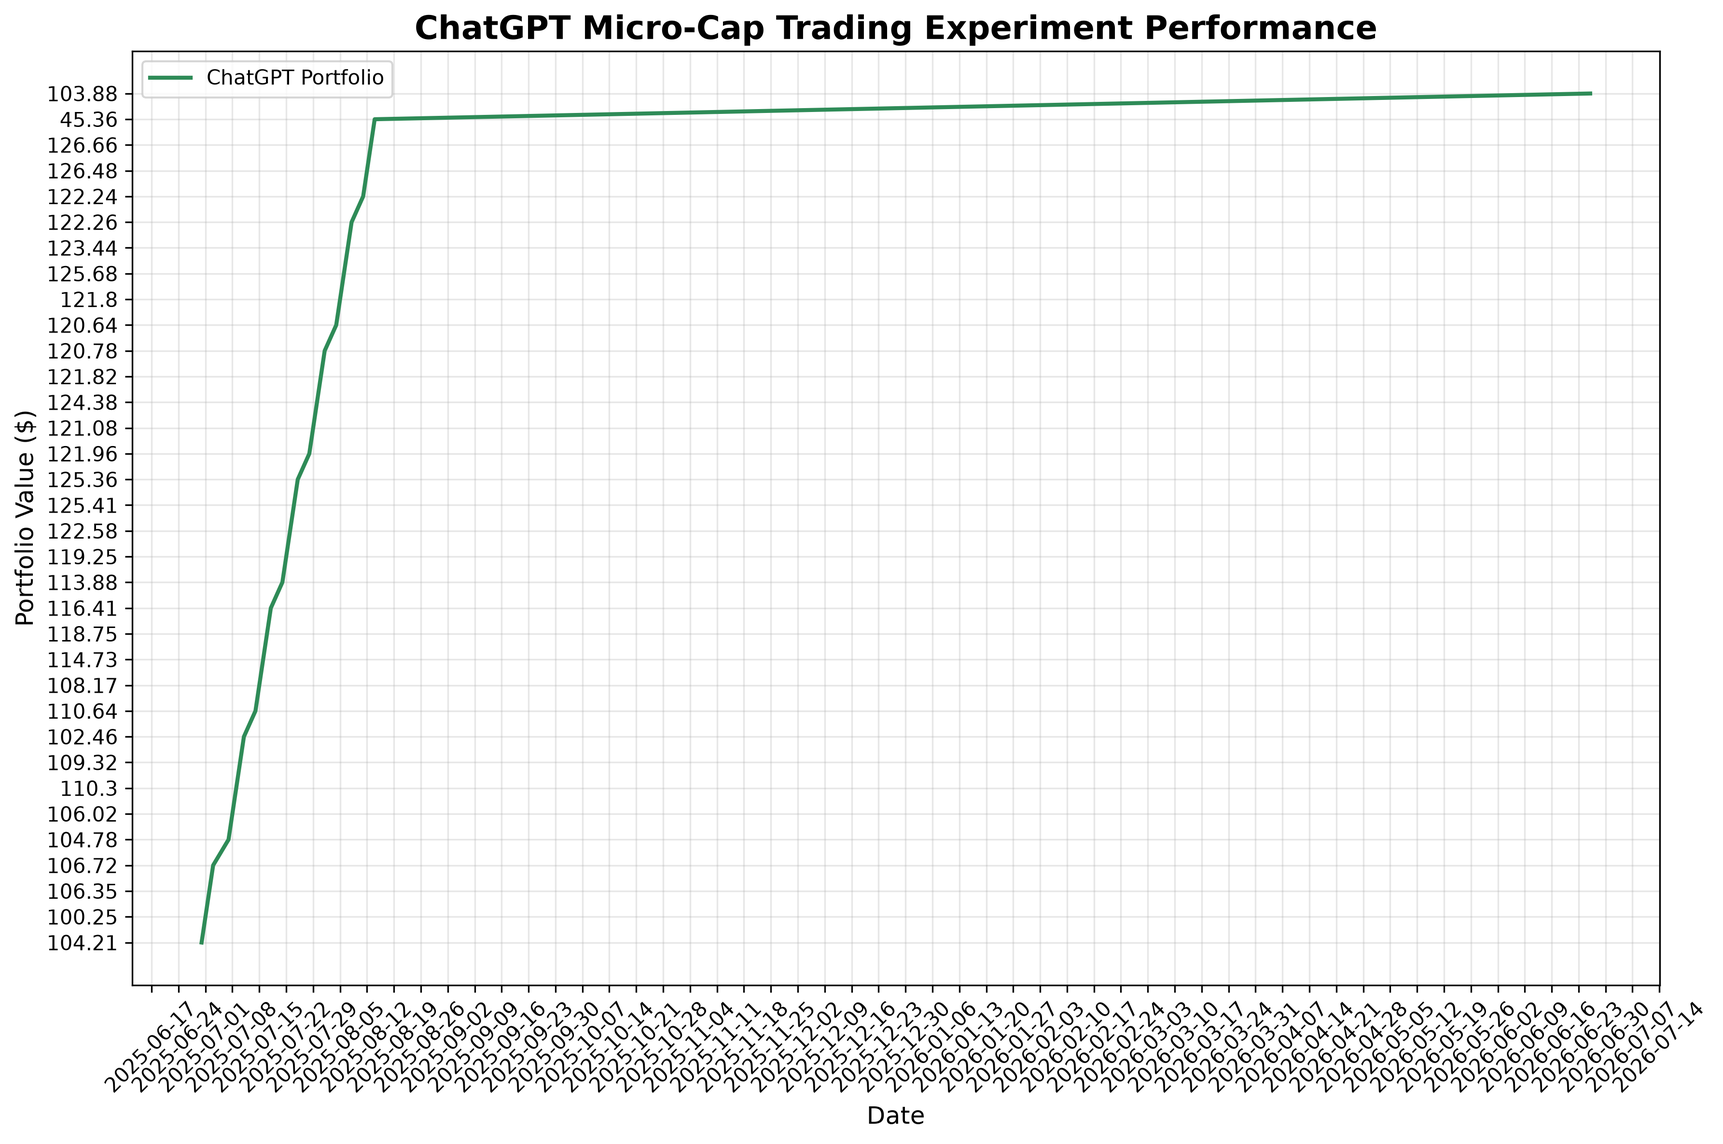
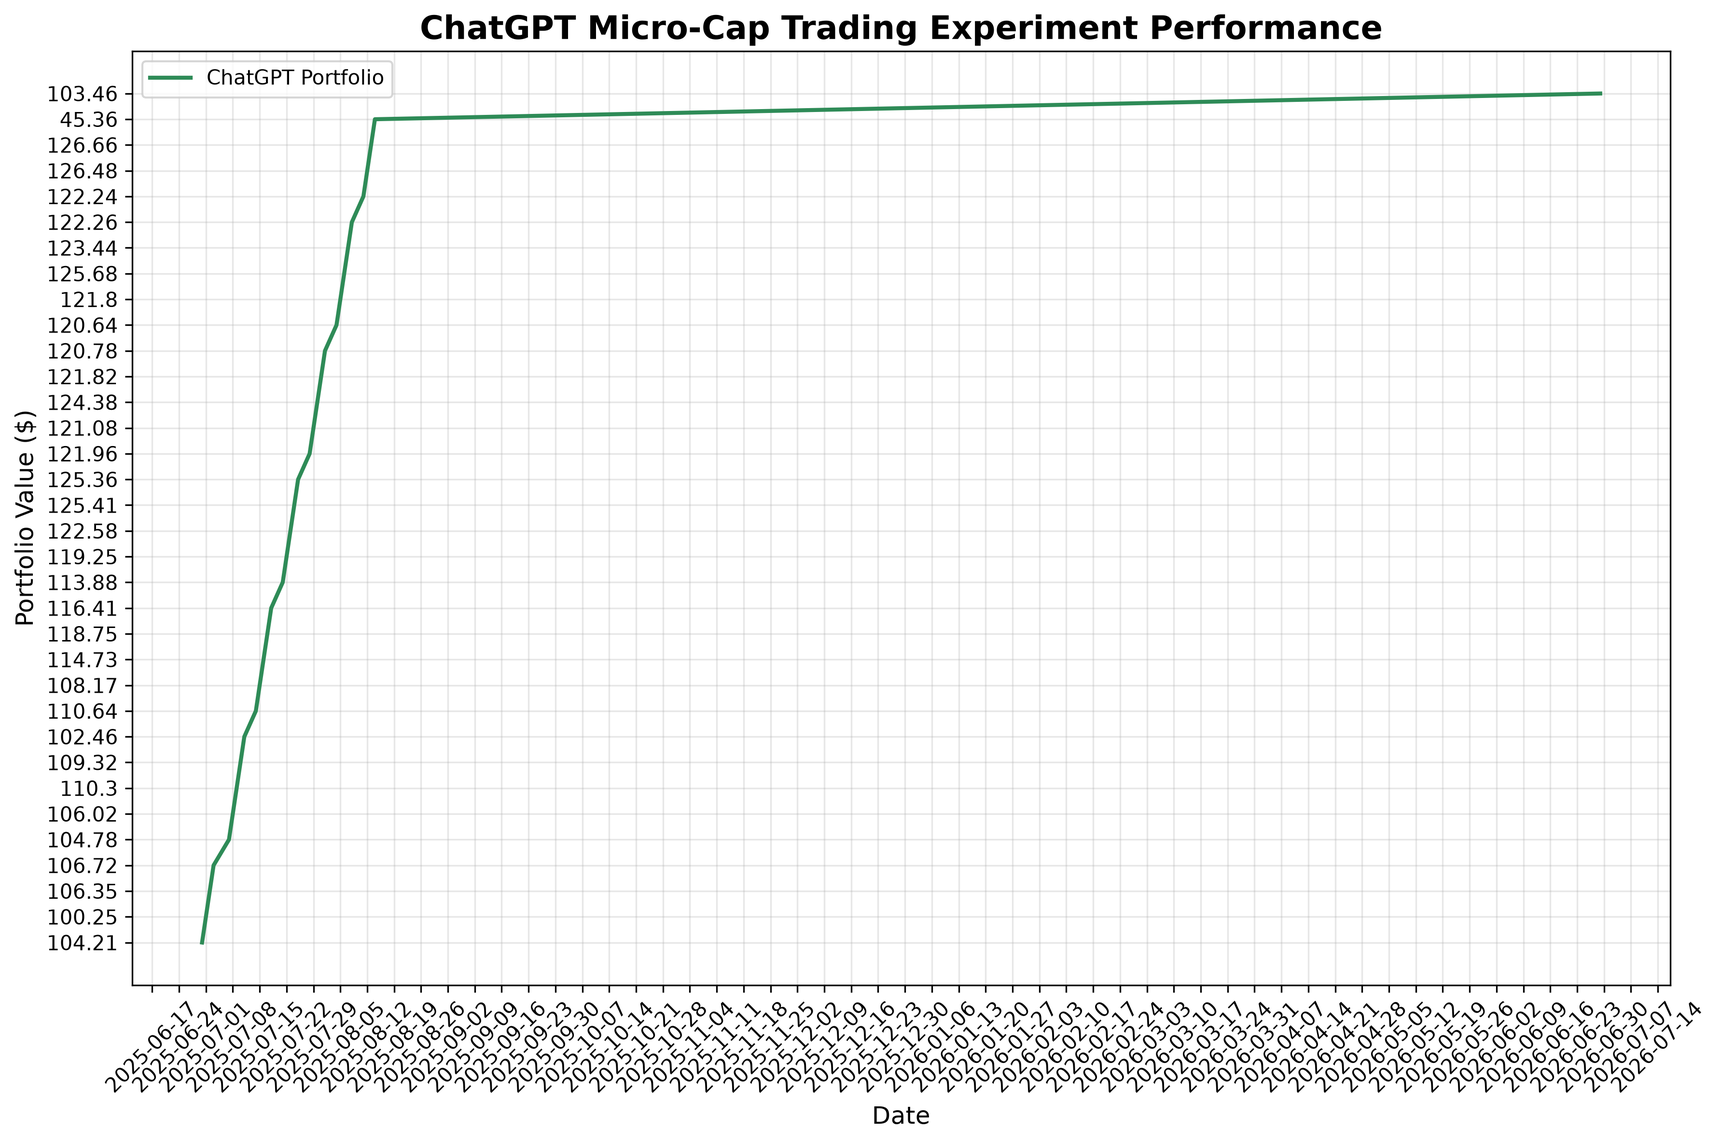
deploy: e15cad030d70fb3fbb51f9df6e22fa70c2f175c0

Changed region(s): [[0.0623, 0.8743, 0.9649, 0.9992], [0.2179, 0.0, 0.8093, 0.0624]]

diff --git a/index.html b/index.html
@@ -105,7 +105,7 @@
                 <div class="stat-label">Total Trades</div>
             </div>
             <div class="stat-card">
-                <div class="stat-value" id="last-updated">2026-06-26</div>
+                <div class="stat-value" id="last-updated">2026-06-29</div>
                 <div class="stat-label">Last Updated</div>
             </div>
         </div>
@@ -160,8 +160,8 @@
     
     <script>
         // Portfolio data
-        const portfolioData = JSON.parse("[{&quot;Date&quot;: &quot;2025-08-11&quot;, &quot;Ticker&quot;: &quot;ABEO&quot;, &quot;Shares&quot;: 4.0, &quot;Buy Price&quot;: 5.77, &quot;Cost Basis&quot;: 23.08, &quot;Stop Loss&quot;: 4.9, &quot;Current Price&quot;: 6.28, &quot;Total Value&quot;: 25.12, &quot;PnL&quot;: 2.04, &quot;Action&quot;: &quot;HOLD&quot;, &quot;Cash Balance&quot;: NaN, &quot;Total Equity&quot;: NaN}, {&quot;Date&quot;: &quot;2025-08-11&quot;, &quot;Ticker&quot;: &quot;ACTU&quot;, &quot;Shares&quot;: 6.0, &quot;Buy Price&quot;: 5.75, &quot;Cost Basis&quot;: 34.5, &quot;Stop Loss&quot;: 4.89, &quot;Current Price&quot;: 8.01, &quot;Total Value&quot;: 48.06, &quot;PnL&quot;: 13.56, &quot;Action&quot;: &quot;HOLD&quot;, &quot;Cash Balance&quot;: NaN, &quot;Total Equity&quot;: NaN}, {&quot;Date&quot;: &quot;2025-08-11&quot;, &quot;Ticker&quot;: &quot;ESPR&quot;, &quot;Shares&quot;: 2.0, &quot;Buy Price&quot;: 1.91, &quot;Cost Basis&quot;: 3.82, &quot;Stop Loss&quot;: 1.6, &quot;Current Price&quot;: 1.85, &quot;Total Value&quot;: 3.7, &quot;PnL&quot;: -0.12, &quot;Action&quot;: &quot;HOLD&quot;, &quot;Cash Balance&quot;: NaN, &quot;Total Equity&quot;: NaN}, {&quot;Date&quot;: &quot;2025-08-11&quot;, &quot;Ticker&quot;: &quot;TOTAL&quot;, &quot;Shares&quot;: NaN, &quot;Buy Price&quot;: NaN, &quot;Cost Basis&quot;: NaN, &quot;Stop Loss&quot;: NaN, &quot;Current Price&quot;: NaN, &quot;Total Value&quot;: 76.88, &quot;PnL&quot;: 15.48, &quot;Action&quot;: NaN, &quot;Cash Balance&quot;: 45.36, &quot;Total Equity&quot;: &quot;122.24&quot;}, {&quot;Date&quot;: &quot;2025-08-12&quot;, &quot;Ticker&quot;: &quot;ABEO&quot;, &quot;Shares&quot;: 4.0, &quot;Buy Price&quot;: 5.77, &quot;Cost Basis&quot;: 23.08, &quot;Stop Loss&quot;: 4.9, &quot;Current Price&quot;: 6.38, &quot;Total Value&quot;: 25.52, &quot;PnL&quot;: 2.44, &quot;Action&quot;: &quot;HOLD&quot;, &quot;Cash Balance&quot;: NaN, &quot;Total Equity&quot;: NaN}, {&quot;Date&quot;: &quot;2025-08-12&quot;, &quot;Ticker&quot;: &quot;ACTU&quot;, &quot;Shares&quot;: 6.0, &quot;Buy Price&quot;: 5.75, &quot;Cost Basis&quot;: 34.5, &quot;Stop Loss&quot;: 4.89, &quot;Current Price&quot;: 8.67, &quot;Total Value&quot;: 52.02, &quot;PnL&quot;: 17.52, &quot;Action&quot;: &quot;HOLD&quot;, &quot;Cash Balance&quot;: NaN, &quot;Total Equity&quot;: NaN}, {&quot;Date&quot;: &quot;2025-08-12&quot;, &quot;Ticker&quot;: &quot;ESPR&quot;, &quot;Shares&quot;: 2.0, &quot;Buy Price&quot;: 1.91, &quot;Cost Basis&quot;: 3.82, &quot;Stop Loss&quot;: 1.6, &quot;Current Price&quot;: 1.79, &quot;Total Value&quot;: 3.58, &quot;PnL&quot;: -0.24, &quot;Action&quot;: &quot;HOLD&quot;, &quot;Cash Balance&quot;: NaN, &quot;Total Equity&quot;: NaN}, {&quot;Date&quot;: &quot;2025-08-12&quot;, &quot;Ticker&quot;: &quot;TOTAL&quot;, &quot;Shares&quot;: NaN, &quot;Buy Price&quot;: NaN, &quot;Cost Basis&quot;: NaN, &quot;Stop Loss&quot;: NaN, &quot;Current Price&quot;: NaN, &quot;Total Value&quot;: 81.12, &quot;PnL&quot;: 19.72, &quot;Action&quot;: NaN, &quot;Cash Balance&quot;: 45.36, &quot;Total Equity&quot;: &quot;126.48&quot;}, {&quot;Date&quot;: &quot;2025-08-13&quot;, &quot;Ticker&quot;: &quot;ABEO&quot;, &quot;Shares&quot;: 4.0, &quot;Buy Price&quot;: 5.77, &quot;Cost Basis&quot;: 23.08, &quot;Stop Loss&quot;: 4.9, &quot;Current Price&quot;: 6.56, &quot;Total Value&quot;: 26.24, &quot;PnL&quot;: 3.16, &quot;Action&quot;: &quot;HOLD&quot;, &quot;Cash Balance&quot;: NaN, &quot;Total Equity&quot;: NaN}, {&quot;Date&quot;: &quot;2025-08-13&quot;, &quot;Ticker&quot;: &quot;ACTU&quot;, &quot;Shares&quot;: 6.0, &quot;Buy Price&quot;: 5.75, &quot;Cost Basis&quot;: 34.5, &quot;Stop Loss&quot;: 4.89, &quot;Current Price&quot;: 8.53, &quot;Total Value&quot;: 51.18, &quot;PnL&quot;: 16.68, &quot;Action&quot;: &quot;HOLD&quot;, &quot;Cash Balance&quot;: NaN, &quot;Total Equity&quot;: NaN}, {&quot;Date&quot;: &quot;2025-08-13&quot;, &quot;Ticker&quot;: &quot;ESPR&quot;, &quot;Shares&quot;: 2.0, &quot;Buy Price&quot;: 1.91, &quot;Cost Basis&quot;: 3.82, &quot;Stop Loss&quot;: 1.6, &quot;Current Price&quot;: 1.94, &quot;Total Value&quot;: 3.88, &quot;PnL&quot;: 0.06, &quot;Action&quot;: &quot;HOLD&quot;, &quot;Cash Balance&quot;: NaN, &quot;Total Equity&quot;: NaN}, {&quot;Date&quot;: &quot;2025-08-13&quot;, &quot;Ticker&quot;: &quot;TOTAL&quot;, &quot;Shares&quot;: NaN, &quot;Buy Price&quot;: NaN, &quot;Cost Basis&quot;: NaN, &quot;Stop Loss&quot;: NaN, &quot;Current Price&quot;: NaN, &quot;Total Value&quot;: 81.3, &quot;PnL&quot;: 19.9, &quot;Action&quot;: NaN, &quot;Cash Balance&quot;: 45.36, &quot;Total Equity&quot;: &quot;126.66&quot;}, {&quot;Date&quot;: &quot;2025-08-14&quot;, &quot;Ticker&quot;: &quot;ABEO&quot;, &quot;Shares&quot;: 4.0, &quot;Buy Price&quot;: 5.77, &quot;Cost Basis&quot;: 23.08, &quot;Stop Loss&quot;: 4.9, &quot;Current Price&quot;: NaN, &quot;Total Value&quot;: NaN, &quot;PnL&quot;: NaN, &quot;Action&quot;: &quot;NO DATA&quot;, &quot;Cash Balance&quot;: NaN, &quot;Total Equity&quot;: NaN}, {&quot;Date&quot;: &quot;2025-08-14&quot;, &quot;Ticker&quot;: &quot;ACTU&quot;, &quot;Shares&quot;: 6.0, &quot;Buy Price&quot;: 5.75, &quot;Cost Basis&quot;: 34.5, &quot;Stop Loss&quot;: 4.89, &quot;Current Price&quot;: NaN, &quot;Total Value&quot;: NaN, &quot;PnL&quot;: NaN, &quot;Action&quot;: &quot;NO DATA&quot;, &quot;Cash Balance&quot;: NaN, &quot;Total Equity&quot;: NaN}, {&quot;Date&quot;: &quot;2025-08-14&quot;, &quot;Ticker&quot;: &quot;ESPR&quot;, &quot;Shares&quot;: 2.0, &quot;Buy Price&quot;: 1.91, &quot;Cost Basis&quot;: 3.82, &quot;Stop Loss&quot;: 1.6, &quot;Current Price&quot;: NaN, &quot;Total Value&quot;: NaN, &quot;PnL&quot;: NaN, &quot;Action&quot;: &quot;NO DATA&quot;, &quot;Cash Balance&quot;: NaN, &quot;Total Equity&quot;: NaN}, {&quot;Date&quot;: &quot;2025-08-14&quot;, &quot;Ticker&quot;: &quot;TOTAL&quot;, &quot;Shares&quot;: NaN, &quot;Buy Price&quot;: NaN, &quot;Cost Basis&quot;: NaN, &quot;Stop Loss&quot;: NaN, &quot;Current Price&quot;: NaN, &quot;Total Value&quot;: 0.0, &quot;PnL&quot;: 0.0, &quot;Action&quot;: NaN, &quot;Cash Balance&quot;: 45.36, &quot;Total Equity&quot;: &quot;45.36&quot;}, {&quot;Date&quot;: &quot;2026-06-26&quot;, &quot;Ticker&quot;: &quot;ABEO&quot;, &quot;Shares&quot;: 4.0, &quot;Buy Price&quot;: 5.77, &quot;Cost Basis&quot;: 23.08, &quot;Stop Loss&quot;: 4.9, &quot;Current Price&quot;: 5.72, &quot;Total Value&quot;: 22.88, &quot;PnL&quot;: -0.2, &quot;Action&quot;: &quot;HOLD&quot;, &quot;Cash Balance&quot;: NaN, &quot;Total Equity&quot;: NaN}, {&quot;Date&quot;: &quot;2026-06-26&quot;, &quot;Ticker&quot;: &quot;ACTU&quot;, &quot;Shares&quot;: 6.0, &quot;Buy Price&quot;: 5.75, &quot;Cost Basis&quot;: 34.5, &quot;Stop Loss&quot;: 4.89, &quot;Current Price&quot;: 4.89, &quot;Total Value&quot;: 29.34, &quot;PnL&quot;: -5.16, &quot;Action&quot;: &quot;SELL - Stop Loss Triggered&quot;, &quot;Cash Balance&quot;: NaN, &quot;Total Equity&quot;: NaN}, {&quot;Date&quot;: &quot;2026-06-26&quot;, &quot;Ticker&quot;: &quot;ESPR&quot;, &quot;Shares&quot;: 2.0, &quot;Buy Price&quot;: 1.91, &quot;Cost Basis&quot;: 3.82, &quot;Stop Loss&quot;: 1.6, &quot;Current Price&quot;: 3.15, &quot;Total Value&quot;: 6.3, &quot;PnL&quot;: 2.48, &quot;Action&quot;: &quot;HOLD&quot;, &quot;Cash Balance&quot;: NaN, &quot;Total Equity&quot;: NaN}, {&quot;Date&quot;: &quot;2026-06-26&quot;, &quot;Ticker&quot;: &quot;TOTAL&quot;, &quot;Shares&quot;: NaN, &quot;Buy Price&quot;: NaN, &quot;Cost Basis&quot;: NaN, &quot;Stop Loss&quot;: NaN, &quot;Current Price&quot;: NaN, &quot;Total Value&quot;: 29.18, &quot;PnL&quot;: 2.28, &quot;Action&quot;: NaN, &quot;Cash Balance&quot;: 74.7, &quot;Total Equity&quot;: &quot;103.88&quot;}]");
-        const tradeData = JSON.parse("[{&quot;Date&quot;: &quot;2025-07-08&quot;, &quot;Ticker&quot;: &quot;IINN&quot;, &quot;Shares Bought&quot;: 20.0, &quot;Buy Price&quot;: 1.5, &quot;Cost Basis&quot;: 30.0, &quot;PnL&quot;: 0.0, &quot;Reason&quot;: &quot;MANUAL BUY - New position&quot;, &quot;Shares Sold&quot;: NaN, &quot;Sell Price&quot;: NaN}, {&quot;Date&quot;: &quot;2025-07-21&quot;, &quot;Ticker&quot;: &quot;CADL&quot;, &quot;Shares Bought&quot;: NaN, &quot;Buy Price&quot;: NaN, &quot;Cost Basis&quot;: 25.2, &quot;PnL&quot;: 8.5, &quot;Reason&quot;: &quot;MANUAL SELL - GAIN CAPITAL FOR ACTU&quot;, &quot;Shares Sold&quot;: 5.0, &quot;Sell Price&quot;: 6.59}, {&quot;Date&quot;: &quot;2025-07-21&quot;, &quot;Ticker&quot;: &quot;ACTU&quot;, &quot;Shares Bought&quot;: 6.0, &quot;Buy Price&quot;: 5.75, &quot;Cost Basis&quot;: 34.5, &quot;PnL&quot;: 0.0, &quot;Reason&quot;: &quot;MANUAL BUY - New position&quot;, &quot;Shares Sold&quot;: NaN, &quot;Sell Price&quot;: NaN}, {&quot;Date&quot;: &quot;2025-07-28&quot;, &quot;Ticker&quot;: &quot;IINN&quot;, &quot;Shares Bought&quot;: NaN, &quot;Buy Price&quot;: NaN, &quot;Cost Basis&quot;: 9.0, &quot;PnL&quot;: -0.5400000000000009, &quot;Reason&quot;: &quot;MANUAL SELL - POSITION REDUCTION&quot;, &quot;Shares Sold&quot;: 6.0, &quot;Sell Price&quot;: 1.41}, {&quot;Date&quot;: &quot;2025-07-29&quot;, &quot;Ticker&quot;: &quot;AZTR&quot;, &quot;Shares Bought&quot;: NaN, &quot;Buy Price&quot;: NaN, &quot;Cost Basis&quot;: 13.75, &quot;PnL&quot;: -2.75, &quot;Reason&quot;: &quot;MANUAL SELL - DILUTION RISK&quot;, &quot;Shares Sold&quot;: 55.0, &quot;Sell Price&quot;: 0.2}, {&quot;Date&quot;: &quot;2025-08-01&quot;, &quot;Ticker&quot;: &quot;IINN&quot;, &quot;Shares Bought&quot;: 2.0, &quot;Buy Price&quot;: 1.74, &quot;Cost Basis&quot;: 3.48, &quot;PnL&quot;: 0.0, &quot;Reason&quot;: &quot;MANUAL BUY - New position&quot;, &quot;Shares Sold&quot;: NaN, &quot;Sell Price&quot;: NaN}, {&quot;Date&quot;: &quot;2025-08-01&quot;, &quot;Ticker&quot;: &quot;ABEO&quot;, &quot;Shares Bought&quot;: NaN, &quot;Buy Price&quot;: NaN, &quot;Cost Basis&quot;: 11.54, &quot;PnL&quot;: 1.200000000000001, &quot;Reason&quot;: &quot;MANUAL SELL - TRIM AFTER SUPPORT LOSS&quot;, &quot;Shares Sold&quot;: 2.0, &quot;Sell Price&quot;: 6.37}, {&quot;Date&quot;: &quot;2025-08-07&quot;, &quot;Ticker&quot;: &quot;ESPR&quot;, &quot;Shares Bought&quot;: 2.0, &quot;Buy Price&quot;: 1.91, &quot;Cost Basis&quot;: 3.82, &quot;PnL&quot;: 0.0, &quot;Reason&quot;: &quot;MANUAL BUY - New position&quot;, &quot;Shares Sold&quot;: NaN, &quot;Sell Price&quot;: NaN}, {&quot;Date&quot;: &quot;2025-08-08&quot;, &quot;Ticker&quot;: &quot;IINN&quot;, &quot;Shares Bought&quot;: NaN, &quot;Buy Price&quot;: NaN, &quot;Cost Basis&quot;: 1.5, &quot;PnL&quot;: -6.4, &quot;Reason&quot;: &quot;AUTOMATED SELL - STOPLOSS TRIGGERED&quot;, &quot;Shares Sold&quot;: 16.0, &quot;Sell Price&quot;: 1.1}, {&quot;Date&quot;: &quot;2026-06-26&quot;, &quot;Ticker&quot;: &quot;ACTU&quot;, &quot;Shares Bought&quot;: NaN, &quot;Buy Price&quot;: NaN, &quot;Cost Basis&quot;: 5.75, &quot;PnL&quot;: -5.16, &quot;Reason&quot;: &quot;AUTOMATED SELL - STOPLOSS TRIGGERED&quot;, &quot;Shares Sold&quot;: 6.0, &quot;Sell Price&quot;: 4.89}]");
+        const portfolioData = JSON.parse("[{&quot;Date&quot;: &quot;2025-08-11&quot;, &quot;Ticker&quot;: &quot;ABEO&quot;, &quot;Shares&quot;: 4.0, &quot;Buy Price&quot;: 5.77, &quot;Cost Basis&quot;: 23.08, &quot;Stop Loss&quot;: 4.9, &quot;Current Price&quot;: 6.28, &quot;Total Value&quot;: 25.12, &quot;PnL&quot;: 2.04, &quot;Action&quot;: &quot;HOLD&quot;, &quot;Cash Balance&quot;: NaN, &quot;Total Equity&quot;: NaN}, {&quot;Date&quot;: &quot;2025-08-11&quot;, &quot;Ticker&quot;: &quot;ACTU&quot;, &quot;Shares&quot;: 6.0, &quot;Buy Price&quot;: 5.75, &quot;Cost Basis&quot;: 34.5, &quot;Stop Loss&quot;: 4.89, &quot;Current Price&quot;: 8.01, &quot;Total Value&quot;: 48.06, &quot;PnL&quot;: 13.56, &quot;Action&quot;: &quot;HOLD&quot;, &quot;Cash Balance&quot;: NaN, &quot;Total Equity&quot;: NaN}, {&quot;Date&quot;: &quot;2025-08-11&quot;, &quot;Ticker&quot;: &quot;ESPR&quot;, &quot;Shares&quot;: 2.0, &quot;Buy Price&quot;: 1.91, &quot;Cost Basis&quot;: 3.82, &quot;Stop Loss&quot;: 1.6, &quot;Current Price&quot;: 1.85, &quot;Total Value&quot;: 3.7, &quot;PnL&quot;: -0.12, &quot;Action&quot;: &quot;HOLD&quot;, &quot;Cash Balance&quot;: NaN, &quot;Total Equity&quot;: NaN}, {&quot;Date&quot;: &quot;2025-08-11&quot;, &quot;Ticker&quot;: &quot;TOTAL&quot;, &quot;Shares&quot;: NaN, &quot;Buy Price&quot;: NaN, &quot;Cost Basis&quot;: NaN, &quot;Stop Loss&quot;: NaN, &quot;Current Price&quot;: NaN, &quot;Total Value&quot;: 76.88, &quot;PnL&quot;: 15.48, &quot;Action&quot;: NaN, &quot;Cash Balance&quot;: 45.36, &quot;Total Equity&quot;: &quot;122.24&quot;}, {&quot;Date&quot;: &quot;2025-08-12&quot;, &quot;Ticker&quot;: &quot;ABEO&quot;, &quot;Shares&quot;: 4.0, &quot;Buy Price&quot;: 5.77, &quot;Cost Basis&quot;: 23.08, &quot;Stop Loss&quot;: 4.9, &quot;Current Price&quot;: 6.38, &quot;Total Value&quot;: 25.52, &quot;PnL&quot;: 2.44, &quot;Action&quot;: &quot;HOLD&quot;, &quot;Cash Balance&quot;: NaN, &quot;Total Equity&quot;: NaN}, {&quot;Date&quot;: &quot;2025-08-12&quot;, &quot;Ticker&quot;: &quot;ACTU&quot;, &quot;Shares&quot;: 6.0, &quot;Buy Price&quot;: 5.75, &quot;Cost Basis&quot;: 34.5, &quot;Stop Loss&quot;: 4.89, &quot;Current Price&quot;: 8.67, &quot;Total Value&quot;: 52.02, &quot;PnL&quot;: 17.52, &quot;Action&quot;: &quot;HOLD&quot;, &quot;Cash Balance&quot;: NaN, &quot;Total Equity&quot;: NaN}, {&quot;Date&quot;: &quot;2025-08-12&quot;, &quot;Ticker&quot;: &quot;ESPR&quot;, &quot;Shares&quot;: 2.0, &quot;Buy Price&quot;: 1.91, &quot;Cost Basis&quot;: 3.82, &quot;Stop Loss&quot;: 1.6, &quot;Current Price&quot;: 1.79, &quot;Total Value&quot;: 3.58, &quot;PnL&quot;: -0.24, &quot;Action&quot;: &quot;HOLD&quot;, &quot;Cash Balance&quot;: NaN, &quot;Total Equity&quot;: NaN}, {&quot;Date&quot;: &quot;2025-08-12&quot;, &quot;Ticker&quot;: &quot;TOTAL&quot;, &quot;Shares&quot;: NaN, &quot;Buy Price&quot;: NaN, &quot;Cost Basis&quot;: NaN, &quot;Stop Loss&quot;: NaN, &quot;Current Price&quot;: NaN, &quot;Total Value&quot;: 81.12, &quot;PnL&quot;: 19.72, &quot;Action&quot;: NaN, &quot;Cash Balance&quot;: 45.36, &quot;Total Equity&quot;: &quot;126.48&quot;}, {&quot;Date&quot;: &quot;2025-08-13&quot;, &quot;Ticker&quot;: &quot;ABEO&quot;, &quot;Shares&quot;: 4.0, &quot;Buy Price&quot;: 5.77, &quot;Cost Basis&quot;: 23.08, &quot;Stop Loss&quot;: 4.9, &quot;Current Price&quot;: 6.56, &quot;Total Value&quot;: 26.24, &quot;PnL&quot;: 3.16, &quot;Action&quot;: &quot;HOLD&quot;, &quot;Cash Balance&quot;: NaN, &quot;Total Equity&quot;: NaN}, {&quot;Date&quot;: &quot;2025-08-13&quot;, &quot;Ticker&quot;: &quot;ACTU&quot;, &quot;Shares&quot;: 6.0, &quot;Buy Price&quot;: 5.75, &quot;Cost Basis&quot;: 34.5, &quot;Stop Loss&quot;: 4.89, &quot;Current Price&quot;: 8.53, &quot;Total Value&quot;: 51.18, &quot;PnL&quot;: 16.68, &quot;Action&quot;: &quot;HOLD&quot;, &quot;Cash Balance&quot;: NaN, &quot;Total Equity&quot;: NaN}, {&quot;Date&quot;: &quot;2025-08-13&quot;, &quot;Ticker&quot;: &quot;ESPR&quot;, &quot;Shares&quot;: 2.0, &quot;Buy Price&quot;: 1.91, &quot;Cost Basis&quot;: 3.82, &quot;Stop Loss&quot;: 1.6, &quot;Current Price&quot;: 1.94, &quot;Total Value&quot;: 3.88, &quot;PnL&quot;: 0.06, &quot;Action&quot;: &quot;HOLD&quot;, &quot;Cash Balance&quot;: NaN, &quot;Total Equity&quot;: NaN}, {&quot;Date&quot;: &quot;2025-08-13&quot;, &quot;Ticker&quot;: &quot;TOTAL&quot;, &quot;Shares&quot;: NaN, &quot;Buy Price&quot;: NaN, &quot;Cost Basis&quot;: NaN, &quot;Stop Loss&quot;: NaN, &quot;Current Price&quot;: NaN, &quot;Total Value&quot;: 81.3, &quot;PnL&quot;: 19.9, &quot;Action&quot;: NaN, &quot;Cash Balance&quot;: 45.36, &quot;Total Equity&quot;: &quot;126.66&quot;}, {&quot;Date&quot;: &quot;2025-08-14&quot;, &quot;Ticker&quot;: &quot;ABEO&quot;, &quot;Shares&quot;: 4.0, &quot;Buy Price&quot;: 5.77, &quot;Cost Basis&quot;: 23.08, &quot;Stop Loss&quot;: 4.9, &quot;Current Price&quot;: NaN, &quot;Total Value&quot;: NaN, &quot;PnL&quot;: NaN, &quot;Action&quot;: &quot;NO DATA&quot;, &quot;Cash Balance&quot;: NaN, &quot;Total Equity&quot;: NaN}, {&quot;Date&quot;: &quot;2025-08-14&quot;, &quot;Ticker&quot;: &quot;ACTU&quot;, &quot;Shares&quot;: 6.0, &quot;Buy Price&quot;: 5.75, &quot;Cost Basis&quot;: 34.5, &quot;Stop Loss&quot;: 4.89, &quot;Current Price&quot;: NaN, &quot;Total Value&quot;: NaN, &quot;PnL&quot;: NaN, &quot;Action&quot;: &quot;NO DATA&quot;, &quot;Cash Balance&quot;: NaN, &quot;Total Equity&quot;: NaN}, {&quot;Date&quot;: &quot;2025-08-14&quot;, &quot;Ticker&quot;: &quot;ESPR&quot;, &quot;Shares&quot;: 2.0, &quot;Buy Price&quot;: 1.91, &quot;Cost Basis&quot;: 3.82, &quot;Stop Loss&quot;: 1.6, &quot;Current Price&quot;: NaN, &quot;Total Value&quot;: NaN, &quot;PnL&quot;: NaN, &quot;Action&quot;: &quot;NO DATA&quot;, &quot;Cash Balance&quot;: NaN, &quot;Total Equity&quot;: NaN}, {&quot;Date&quot;: &quot;2025-08-14&quot;, &quot;Ticker&quot;: &quot;TOTAL&quot;, &quot;Shares&quot;: NaN, &quot;Buy Price&quot;: NaN, &quot;Cost Basis&quot;: NaN, &quot;Stop Loss&quot;: NaN, &quot;Current Price&quot;: NaN, &quot;Total Value&quot;: 0.0, &quot;PnL&quot;: 0.0, &quot;Action&quot;: NaN, &quot;Cash Balance&quot;: 45.36, &quot;Total Equity&quot;: &quot;45.36&quot;}, {&quot;Date&quot;: &quot;2026-06-29&quot;, &quot;Ticker&quot;: &quot;ABEO&quot;, &quot;Shares&quot;: 4.0, &quot;Buy Price&quot;: 5.77, &quot;Cost Basis&quot;: 23.08, &quot;Stop Loss&quot;: 4.9, &quot;Current Price&quot;: 5.61, &quot;Total Value&quot;: 22.44, &quot;PnL&quot;: -0.64, &quot;Action&quot;: &quot;HOLD&quot;, &quot;Cash Balance&quot;: NaN, &quot;Total Equity&quot;: NaN}, {&quot;Date&quot;: &quot;2026-06-29&quot;, &quot;Ticker&quot;: &quot;ACTU&quot;, &quot;Shares&quot;: 6.0, &quot;Buy Price&quot;: 5.75, &quot;Cost Basis&quot;: 34.5, &quot;Stop Loss&quot;: 4.89, &quot;Current Price&quot;: 4.89, &quot;Total Value&quot;: 29.34, &quot;PnL&quot;: -5.16, &quot;Action&quot;: &quot;SELL - Stop Loss Triggered&quot;, &quot;Cash Balance&quot;: NaN, &quot;Total Equity&quot;: NaN}, {&quot;Date&quot;: &quot;2026-06-29&quot;, &quot;Ticker&quot;: &quot;ESPR&quot;, &quot;Shares&quot;: 2.0, &quot;Buy Price&quot;: 1.91, &quot;Cost Basis&quot;: 3.82, &quot;Stop Loss&quot;: 1.6, &quot;Current Price&quot;: 3.16, &quot;Total Value&quot;: 6.32, &quot;PnL&quot;: 2.5, &quot;Action&quot;: &quot;HOLD&quot;, &quot;Cash Balance&quot;: NaN, &quot;Total Equity&quot;: NaN}, {&quot;Date&quot;: &quot;2026-06-29&quot;, &quot;Ticker&quot;: &quot;TOTAL&quot;, &quot;Shares&quot;: NaN, &quot;Buy Price&quot;: NaN, &quot;Cost Basis&quot;: NaN, &quot;Stop Loss&quot;: NaN, &quot;Current Price&quot;: NaN, &quot;Total Value&quot;: 28.76, &quot;PnL&quot;: 1.86, &quot;Action&quot;: NaN, &quot;Cash Balance&quot;: 74.7, &quot;Total Equity&quot;: &quot;103.46&quot;}]");
+        const tradeData = JSON.parse("[{&quot;Date&quot;: &quot;2025-07-08&quot;, &quot;Ticker&quot;: &quot;IINN&quot;, &quot;Shares Bought&quot;: 20.0, &quot;Buy Price&quot;: 1.5, &quot;Cost Basis&quot;: 30.0, &quot;PnL&quot;: 0.0, &quot;Reason&quot;: &quot;MANUAL BUY - New position&quot;, &quot;Shares Sold&quot;: NaN, &quot;Sell Price&quot;: NaN}, {&quot;Date&quot;: &quot;2025-07-21&quot;, &quot;Ticker&quot;: &quot;CADL&quot;, &quot;Shares Bought&quot;: NaN, &quot;Buy Price&quot;: NaN, &quot;Cost Basis&quot;: 25.2, &quot;PnL&quot;: 8.5, &quot;Reason&quot;: &quot;MANUAL SELL - GAIN CAPITAL FOR ACTU&quot;, &quot;Shares Sold&quot;: 5.0, &quot;Sell Price&quot;: 6.59}, {&quot;Date&quot;: &quot;2025-07-21&quot;, &quot;Ticker&quot;: &quot;ACTU&quot;, &quot;Shares Bought&quot;: 6.0, &quot;Buy Price&quot;: 5.75, &quot;Cost Basis&quot;: 34.5, &quot;PnL&quot;: 0.0, &quot;Reason&quot;: &quot;MANUAL BUY - New position&quot;, &quot;Shares Sold&quot;: NaN, &quot;Sell Price&quot;: NaN}, {&quot;Date&quot;: &quot;2025-07-28&quot;, &quot;Ticker&quot;: &quot;IINN&quot;, &quot;Shares Bought&quot;: NaN, &quot;Buy Price&quot;: NaN, &quot;Cost Basis&quot;: 9.0, &quot;PnL&quot;: -0.5400000000000009, &quot;Reason&quot;: &quot;MANUAL SELL - POSITION REDUCTION&quot;, &quot;Shares Sold&quot;: 6.0, &quot;Sell Price&quot;: 1.41}, {&quot;Date&quot;: &quot;2025-07-29&quot;, &quot;Ticker&quot;: &quot;AZTR&quot;, &quot;Shares Bought&quot;: NaN, &quot;Buy Price&quot;: NaN, &quot;Cost Basis&quot;: 13.75, &quot;PnL&quot;: -2.75, &quot;Reason&quot;: &quot;MANUAL SELL - DILUTION RISK&quot;, &quot;Shares Sold&quot;: 55.0, &quot;Sell Price&quot;: 0.2}, {&quot;Date&quot;: &quot;2025-08-01&quot;, &quot;Ticker&quot;: &quot;IINN&quot;, &quot;Shares Bought&quot;: 2.0, &quot;Buy Price&quot;: 1.74, &quot;Cost Basis&quot;: 3.48, &quot;PnL&quot;: 0.0, &quot;Reason&quot;: &quot;MANUAL BUY - New position&quot;, &quot;Shares Sold&quot;: NaN, &quot;Sell Price&quot;: NaN}, {&quot;Date&quot;: &quot;2025-08-01&quot;, &quot;Ticker&quot;: &quot;ABEO&quot;, &quot;Shares Bought&quot;: NaN, &quot;Buy Price&quot;: NaN, &quot;Cost Basis&quot;: 11.54, &quot;PnL&quot;: 1.200000000000001, &quot;Reason&quot;: &quot;MANUAL SELL - TRIM AFTER SUPPORT LOSS&quot;, &quot;Shares Sold&quot;: 2.0, &quot;Sell Price&quot;: 6.37}, {&quot;Date&quot;: &quot;2025-08-07&quot;, &quot;Ticker&quot;: &quot;ESPR&quot;, &quot;Shares Bought&quot;: 2.0, &quot;Buy Price&quot;: 1.91, &quot;Cost Basis&quot;: 3.82, &quot;PnL&quot;: 0.0, &quot;Reason&quot;: &quot;MANUAL BUY - New position&quot;, &quot;Shares Sold&quot;: NaN, &quot;Sell Price&quot;: NaN}, {&quot;Date&quot;: &quot;2025-08-08&quot;, &quot;Ticker&quot;: &quot;IINN&quot;, &quot;Shares Bought&quot;: NaN, &quot;Buy Price&quot;: NaN, &quot;Cost Basis&quot;: 1.5, &quot;PnL&quot;: -6.4, &quot;Reason&quot;: &quot;AUTOMATED SELL - STOPLOSS TRIGGERED&quot;, &quot;Shares Sold&quot;: 16.0, &quot;Sell Price&quot;: 1.1}, {&quot;Date&quot;: &quot;2026-06-29&quot;, &quot;Ticker&quot;: &quot;ACTU&quot;, &quot;Shares Bought&quot;: NaN, &quot;Buy Price&quot;: NaN, &quot;Cost Basis&quot;: 5.75, &quot;PnL&quot;: -5.16, &quot;Reason&quot;: &quot;AUTOMATED SELL - STOPLOSS TRIGGERED&quot;, &quot;Shares Sold&quot;: 6.0, &quot;Sell Price&quot;: 4.89}]");
         
         // Update total equity
         if (portfolioData.length > 0) {
